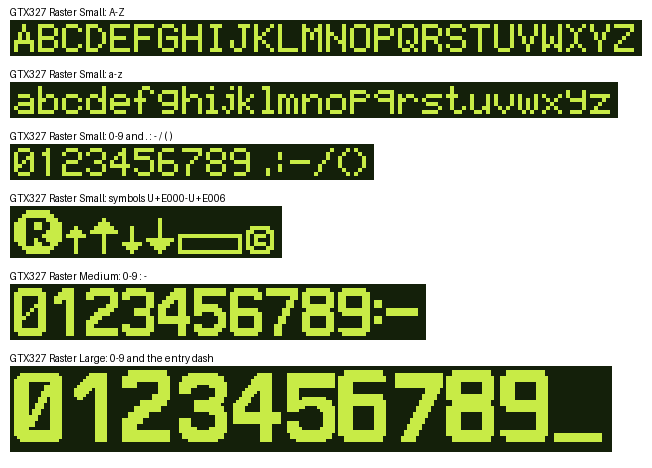
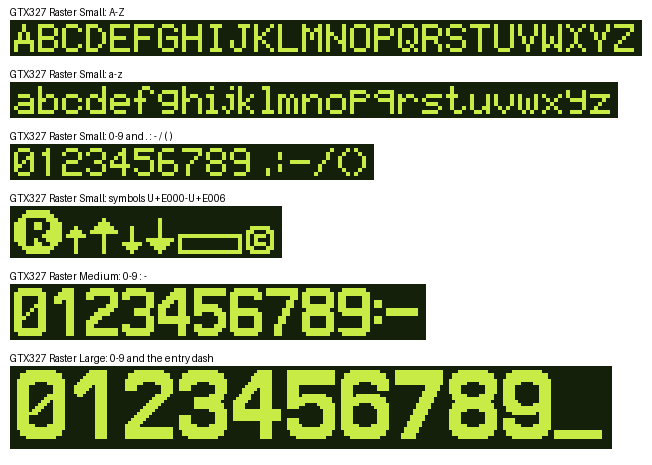
GTX327 Large 1.001: redraw 0 2 6 8 9 in Garmin's design
Garmin's large digits are its medium design drawn bigger (the 3 and 5
are exact at both sizes). The large 0, 2 and 6 now follow Garmin's exact
medium 0, 2 and 6, built from parts of the exact large 3, 4, 5 and 7;
8 is the 3 made symmetric and 9 is the 6 turned 180 degrees. Every
large digit is now 23 rows tall.

diff --git a/GTX327/README.md b/GTX327/README.md
@@ -9,13 +9,13 @@ square, and nothing is meant to be smoothed or anti-aliased.
 | File | Height | Advance | Use |
 |---|---|---|---|
 | `GTX327RasterSmall-Regular.ttf` | 7 rows | 6 (see below) | labels, titles, mode and IDENT text |
-| `GTX327RasterMedium-Regular.ttf` | 12 rows | 9 for digits, 3 for the colon, 5 for the space | altitude and HH:MM:SS timer values |
+| `GTX327RasterMedium-Regular.ttf` | 12 rows | 9 for digits and `-`, 3 for the colon, 5 for the space | altitude and HH:MM:SS timer values |
 | `GTX327RasterLarge-Regular.ttf` | 27-row cell | 18 | the four-digit squawk code |
 
 **Small font**
-- A-Z, a-z and 0-9 advance 6. Lowercase sits on the baseline, with no
-  descenders.
-- Other advances: `i j l ( )` 4, `. :` 3, space 3.
+- Advance 6 for A-Z, a-z and 0-9, except `i j l ( )` 4. `. :` and space
+  advance 3.
+- Lowercase sits on the baseline, with no descenders.
 - Private-use symbols:
 
 | Code point | Symbol |
@@ -29,8 +29,7 @@ square, and nothing is meant to be smoothed or anti-aliased.
 | U+E006 | copyright sign |
 
 **Large font**
-- The digits sit in a 27-row cell. 0, 1, 3, 4, 5 and 7 are 23 rows tall; 2, 6,
-  8 and 9 are 24.
+- The digits sit in a 27-row cell. Every digit is 23 rows tall.
 - `-` is the low entry dash shown while a code is being typed.
 
 ## Grid
@@ -49,14 +48,19 @@ figures: the 200 x 33 display bitmaps in the GTX 327 Installation Manual
 
 - **Small:** A B C D E F H I K L M N O P Q R S T U V Y 0 1 2 3 4 5 8, the space
   width, and the monospaced I.
-- **Medium:** 0 1 3 5 6, the colon, and its spacing.
+- **Medium:** 0 1 2 3 5 6, the colon, and its spacing.
 - **Large:** 1 3 4 5 7.
 
-The remaining glyphs follow the same style but have no exact Garmin source.
-The large 2, 6, 8 and 9 in particular are older drafts and may be redrawn.
+Garmin's large digits are its medium design drawn bigger; the 3 and 5, exact
+at both sizes, confirm this. So the large 0, 2 and 6 follow Garmin's exact
+medium 0, 2 and 6, built from parts of the exact large 3, 4, 5 and 7. The large 8 and 9 have no Garmin
+source at any size; 8 is the 3 made symmetric and 9 is the 6 turned 180
+degrees. The remaining glyphs follow the same style but have no exact Garmin
+source.
 
-The real unit also uses a bold 7-row face for some annunciators (for example
-ALT and FL). It is not part of this set yet.
+The real unit also draws a few annunciators (for example ALT and FL) and its
+installer configuration values in bold faces. This set deliberately uses one
+face for all text.
 
 Garmin and GTX are trademarks of Garmin Ltd. or its subsidiaries. These fonts
 are an independent recreation and are not affiliated with or endorsed by
